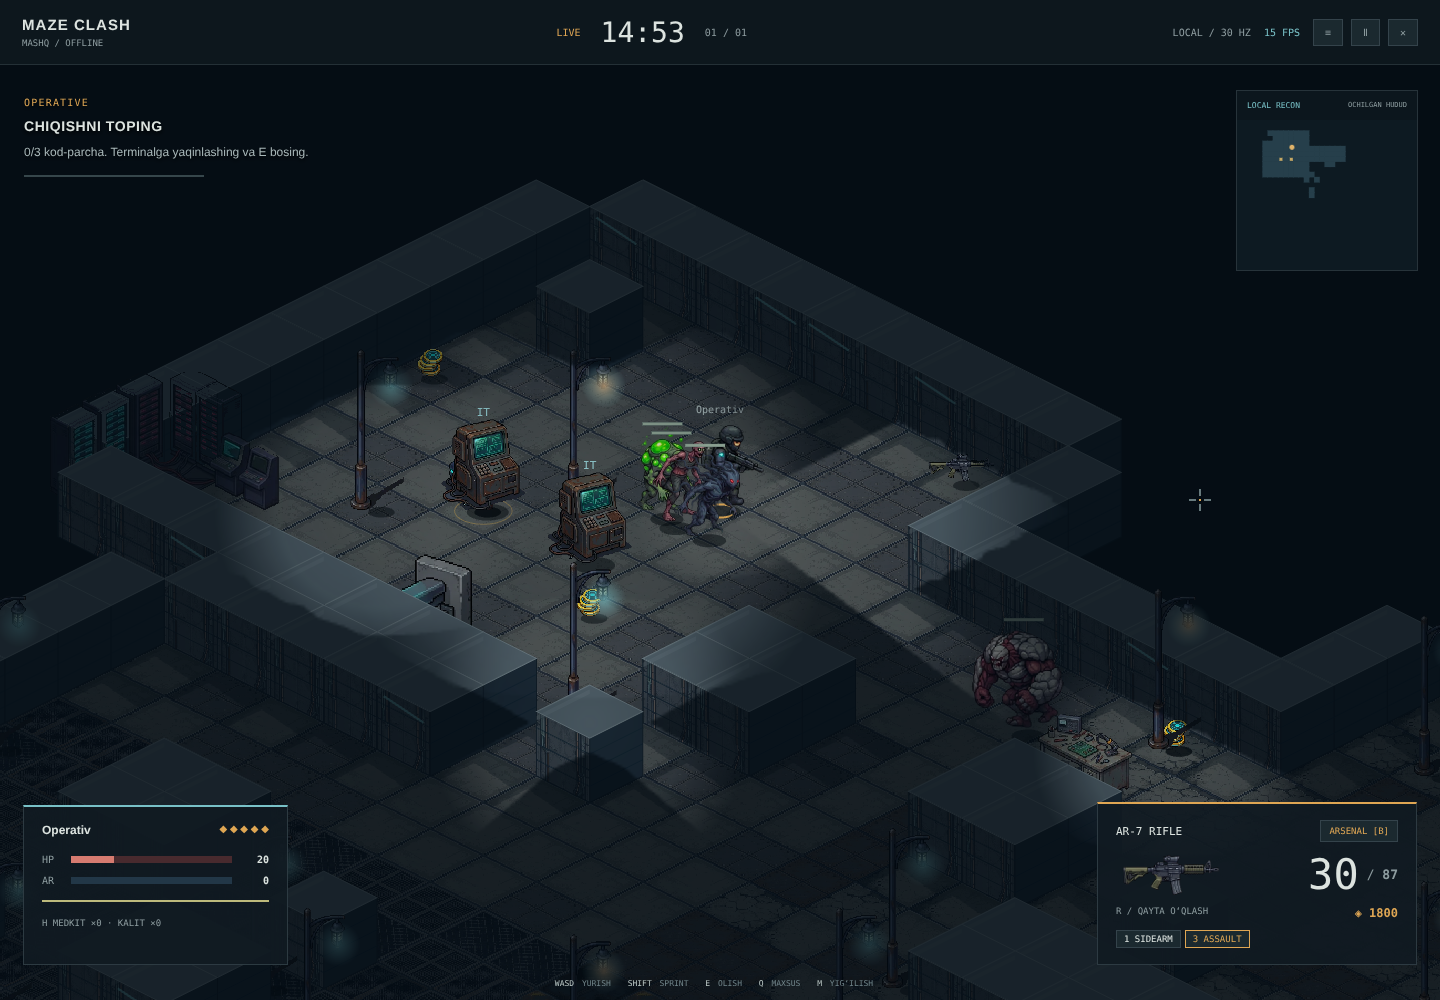
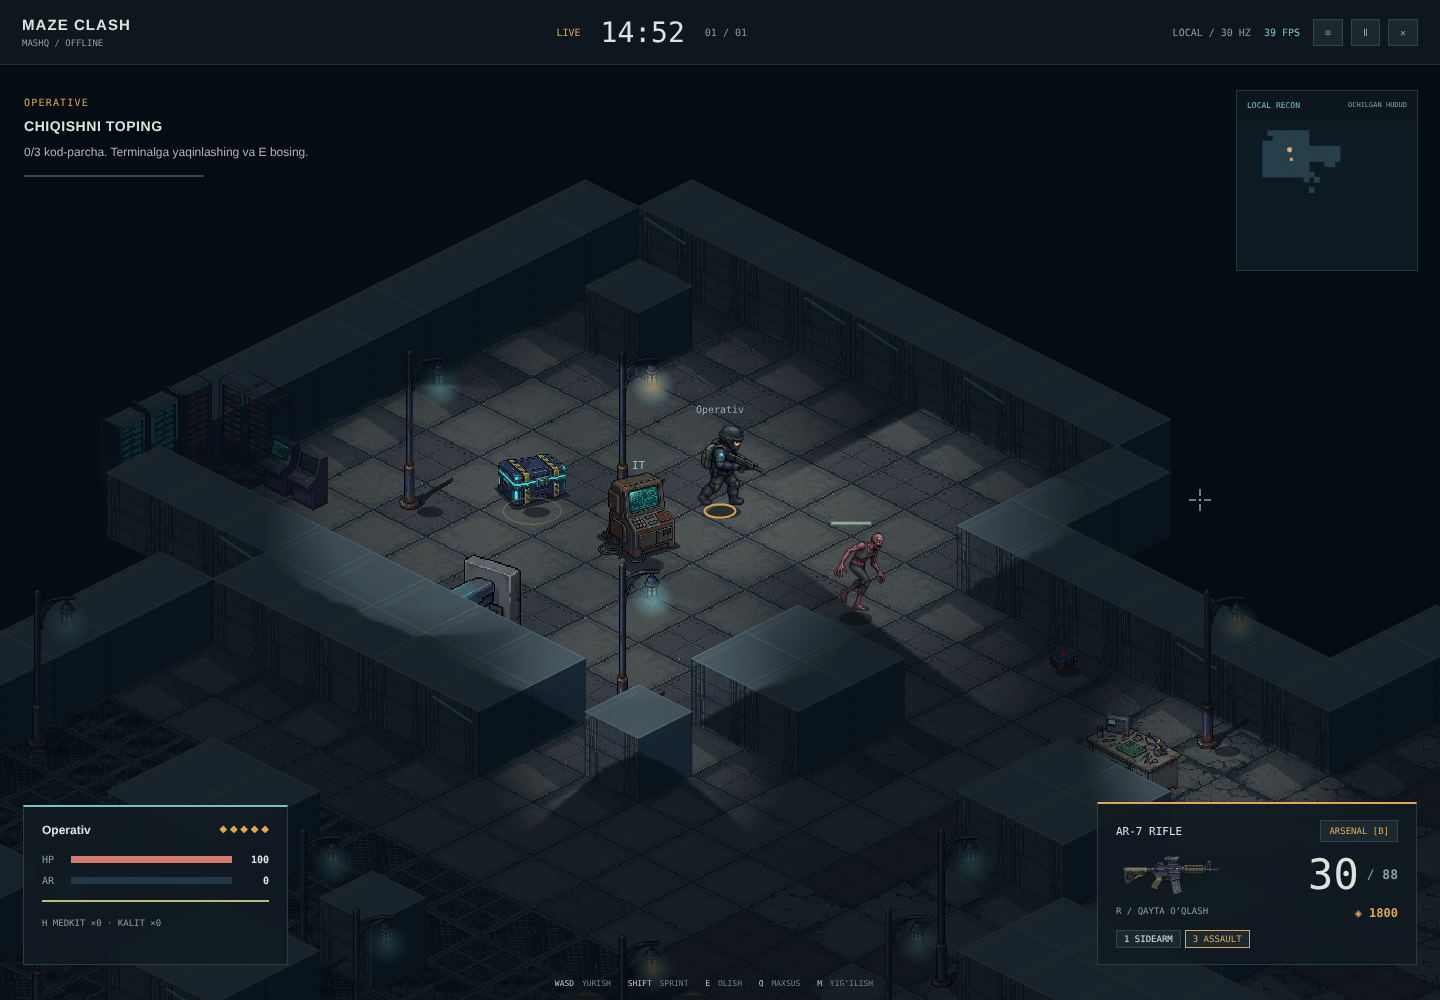
fix: make training terminal reliable and adapt render resolution
Clear random tutorial loot, share practice setup between server and worker, test first interaction across 80 map seeds, reuse light buffers, add adaptive render resolution and record live deployment evidence.

diff --git a/public/practice-worker.js b/public/practice-worker.js
@@ -907,7 +907,8 @@ class World {
         this.fire(p, now);
       // Health is never regenerated automatically: the medkit economy matters.
     }
-    if (now > this.buyEndsAt) this.moveMonsters(dt, now);
+    if (now > this.buyEndsAt && now > (this.monsterWakeAt || 0))
+      this.moveMonsters(dt, now);
     for (let i = this.bullets.length - 1; i >= 0; i--) {
       const b = this.bullets[i];
       let removed = false,
@@ -1748,6 +1749,47 @@ class World {
       question: { q: q.q, a: q.a },
     });
   }
+  preparePractice(id) {
+    const p = this.getPlayer(id);
+    Object.assign(p, {
+      x: 6.5,
+      y: 6.5,
+      credits: 1800,
+      weapon: "rifle",
+      inventory: {
+        pistol: { mag: 12, reserve: 36 },
+        rifle: { mag: 30, reserve: 90 },
+      },
+    });
+    this.gates = [];
+    this.props = this.props.filter((o) => distance(o, p) > 3);
+    // Random loot must never steal the first E interaction from the tutorial terminal.
+    this.drops = this.drops.filter((d) => distance(d, p) > 2);
+    this.terminals = [
+      {
+        id: "training-terminal",
+        x: 7.5,
+        y: 7.5,
+        quiz: this.nextQuiz(),
+        solved: false,
+      },
+      ...this.terminals.slice(0, 4).filter((t) => distance(t, p) > 3),
+    ];
+    this.drops.unshift({
+      id: uid(),
+      x: 5.5,
+      y: 7.5,
+      kind: "chest",
+      reward: "ammo",
+    });
+    this.lamps.push({ x: p.x, y: p.y, r: 5, color: "amber" });
+    this.monsterWakeAt = Date.now() + 10000;
+    const far = this.cells.filter((c) => distance(c, p) > 9);
+    this.monsters.forEach((m, i) => {
+      if (i === 0) Object.assign(m, { x: 10.5, y: 6.5 });
+      else if (distance(m, p) < 8) Object.assign(m, far[i % far.length]);
+    });
+  }
   decorate() {
     const types = [
       "crate",
@@ -1790,7 +1832,7 @@ class World {
 
 let w,p,lastSeq=0,sendCount=0;const config={mode:'escape',duration:900,lives:5,rounds:1,mapSize:'small',monsters:'few',ammo:'limited',puzzles:true,practice:true};
 onmessage=e=>{const m=e.data;if(m.t==='create'){p={id:'local',name:String(m.name||'Operativ'),participates:true,joined:Date.now()};postMessage({t:'welcome',id:p.id,host:p.id,room:'LOCAL'});postMessage({t:'lobby',room:'LOCAL',host:p.id,config,players:[p]});}
-if(m.t==='start'){w=new World(config,[p],[0,0],1,145);const actor=w.getPlayer('local');Object.assign(actor,w.near({x:6.5,y:6.5}),{credits:1800,weapon:'rifle',inventory:{pistol:{mag:12,reserve:36},rifle:{mag:30,reserve:90}}});w.gates=[];w.terminals=[{id:'training-terminal',...w.near({x:actor.x+1,y:actor.y+1}),quiz:w.nextQuiz(),solved:false},...w.terminals.slice(0,4)];w.drops.unshift({id:uid(),...w.near({x:actor.x-1,y:actor.y+1}),kind:'chest',reward:'ammo'});w.lamps.push({x:actor.x,y:actor.y,r:5,color:'amber'});if(w.monsters.length)Object.assign(w.monsters[0],w.near({x:actor.x+4,y:actor.y}));postMessage({t:'map',map:w.map,config,room:'LOCAL'});postMessage(w.snapshotFor('local'));}
+if(m.t==='start'){w=new World(config,[p],[0,0],1,145);w.preparePractice('local');postMessage({t:'map',map:w.map,config,room:'LOCAL'});postMessage(w.snapshotFor('local'));}
 if(m.t==='input'&&w)w.setInput('local',m.input);
 if(m.t==='command'&&w)w.command('local',m);
 if(m.t==='pause'&&w){if(w.paused)w.endsAt+=Date.now()-w.pauseStarted;else w.pauseStarted=Date.now();w.paused=!w.paused;}

diff --git a/client/main.js b/client/main.js
@@ -25,7 +25,8 @@ const settings = {
   zoom: 1,
   ...JSON.parse(localStorage.getItem("maze-settings") || "{}"),
 };
-let assets,
+let assetPromise,
+  assets,
   renderer,
   view,
   map,
@@ -93,11 +94,17 @@ $("dialog").addEventListener("cancel", (e) => {
   closeModal();
 });
 async function readyAssets() {
-  if (assets) return;
-  if (!assets) {
-    assets = await new Assets().load();
-    renderer = new Renderer($("game"), assets, settings);
-  }
+  assetPromise ||= new Assets()
+    .load()
+    .then((loaded) => {
+      assets = loaded;
+      renderer = new Renderer($("game"), assets, settings);
+    })
+    .catch((error) => {
+      assetPromise = null;
+      throw error;
+    });
+  return assetPromise;
 }
 const nickname = () => {
   const n = $("nickname").value.trim().slice(0, 18) || "Operativ";
@@ -921,6 +928,19 @@ function loop(ts) {
   }
   if (ts - sampleAt > 1000) {
     renderer.metrics.fps = Math.round((sampleFrames * 1000) / (ts - sampleAt));
+    if (!document.hidden) {
+      const fps = renderer.metrics.fps;
+      renderer.slowSamples = fps < 46 ? (renderer.slowSamples || 0) + 1 : 0;
+      renderer.fastSamples = fps > 57 ? (renderer.fastSamples || 0) + 1 : 0;
+      if (renderer.slowSamples >= 2) {
+        renderer.autoScale = Math.max(0.65, (renderer.autoScale || 1) - 0.1);
+        renderer.slowSamples = 0;
+      }
+      if (renderer.fastSamples >= 6) {
+        renderer.autoScale = Math.min(1, (renderer.autoScale || 1) + 0.1);
+        renderer.fastSamples = 0;
+      }
+    }
     $("perf").textContent = renderer.metrics.fps + " FPS";
     sampleFrames = 0;
     sampleAt = ts;

diff --git a/client/render.js b/client/render.js
@@ -120,7 +120,9 @@ export class Renderer {
       Math.min(
         devicePixelRatio || 1,
         this.settings.quality === "high" ? 1.5 : 1,
-      ) * (this.settings.quality === "low" ? 0.8 : 1);
+      ) *
+      (this.settings.quality === "low" ? 0.8 : 1) *
+      (this.autoScale || 1);
     if (
       this.canvas.width !== Math.round(r.width * dpr) ||
       this.canvas.height !== Math.round(r.height * dpr)
@@ -679,10 +681,16 @@ export class Renderer {
     const scale = this.settings.quality === "low" ? 0.25 : 0.4,
       w = this.width,
       h = this.height;
-    this.light.width = Math.ceil(w * scale);
-    this.light.height = Math.ceil(h * scale);
+    const lw = Math.ceil(w * scale),
+      lh = Math.ceil(h * scale);
+    if (this.light.width !== lw || this.light.height !== lh) {
+      this.light.width = lw;
+      this.light.height = lh;
+    }
     const c = this.light.getContext("2d");
     c.setTransform(scale, 0, 0, scale, 0, 0);
+    c.globalCompositeOperation = "source-over";
+    c.clearRect(0, 0, w, h);
     c.fillStyle = "#020a11b8";
     c.fillRect(0, 0, w, h);
     c.globalCompositeOperation = "destination-out";

diff --git a/docs/TEST_REPORT_UZ.md b/docs/TEST_REPORT_UZ.md
@@ -3,12 +3,14 @@
 | Tekshiruv | Natija |
 |---|---|
 | `npm run check` | Syntax, 1000 quiz schema, 19 manba, 324 sprite hududi o‘tdi |
-| `npm test` | 12/12: fizika, qurol, loot, terminal, privacy, rejim, map, AI, WS |
+| `npm test` | 13/13: fizika, qurol, loot, terminal, privacy, rejim, map, AI, WS |
 | `npm run test:e2e` | 8 browser check: mashq, E quiz, WASD+mouse+fire, shop/reload, screenshot, 2-client multiplayer, 390px, 0 console error |
-| Render baseline | Chromium software headless, 1440×1000; 60 FPS, mean 3.93 ms, p95 7.90 ms |
+| Render baseline | Chromium software headless, 1440×1000; 60 FPS, mean 2.92 ms, p95 5.70 ms |
 | `npm run test:load` | 20 WebSocket client, 15 monster, 30 Hz target / 15 Hz snapshot |
 | Lokal server load | 6 s, 189 tick; mean 2.859 ms, max 20 ms, kamida 94 snapshot/client; 74 MB RSS |
 
 Bu raqamlar tanlangan lokal testdagi o‘lchovlar. O‘zbekiston internetidagi latency/jitter, 30 daqiqalik soak, real Android va sinf kompyuteri profiling’i bilan tenglashtirmang. JSON hisobotlar qayta test paytida yangilanadi. Muayyan qo‘shimcha tekshiruvning o‘tishi master-briefdagi barcha production talablari yopildi degani emas.
 
 Browser rasmlari: `screenshots/menu.png`, `gameplay.png`, `multiplayer.png`, `mobile.png`.
+
+Live deploy tekshiruvi: Render `live`, `/health` 200; ikki tashqi browser client bir xonaga kirib match boshladi. `screenshots/live-server.png` shu jonli serverdan olingan. Tashqi browserda ikki tab bilan 21–30 FPS ham kuzatildi; 60 FPS faqat yuqoridagi lokal baseline natijasi.

diff --git a/docs/DEPLOYMENT_UZ.md b/docs/DEPLOYMENT_UZ.md
@@ -1,0 +1,14 @@
+# Jonli build
+
+- O‘yin: https://maze-clash-shadow-protocol.onrender.com/
+- WebSocket: wss://maze-clash-shadow-protocol.onrender.com/ws
+- Sog‘liq tekshiruvi: https://maze-clash-shadow-protocol.onrender.com/health
+- PR: https://github.com/QobilbekOdilov21/minigame/pull/1
+- Branch: `feat/maze-clash-2-5d-rebuild`; `main` o‘zgarmagan.
+- Runtime: Node, Frankfurt, Free, build `npm ci --omit=dev && npm run build`, start `npm start`.
+
+Bir kishilik tez sinov uchun **Mashqni boshlash**. Do‘stlar bilan: **Xona yaratish**, kod/havolani ulashish, boshqalarda **Xonaga kirish**, hostda **Matchni boshlash**. Server maydoni jonli saytda avtomatik to‘ladi.
+
+Bepul hosting demo uchun: 15 daqiqa trafik bo‘lmasa uxlaydi, keyingi kirishda uyg‘onadi. RAM’dagi xonalar restart/deployda tugaydi. Free tarif 24/7 production kafolati emas; hisobning umumiy bandwidth/build limitlari ham amal qiladi. Rasmiy shartlar: https://render.com/docs/free .
+
+Deploy `live` holatiga yetgani, health 200 va ikki tashqi browserning bir xonada ishlashi tekshirildi. To‘liq internet soak, past quvvatli real Android va barcha 8-dir action atlaslari hali ochiq; `ACCEPTANCE.md`ni ko‘ring.

diff --git a/README.md b/README.md
@@ -2,6 +2,10 @@
 
 SysOne Academy uchun ishlaydigan **izometrik 2.5D tactical shooter**. X/Y o‘yin fizikasi, 2:1 izometrik pol, baland devorlar, oyoq nuqtasi bo‘yicha depth sorting va devor oldida cutaway. Grafik manba — foydalanuvchi bergan 19 ta original atlas va ulardan ishlab chiqilgan animatsiyalar.
 
+**Jonli o‘yin:** https://maze-clash-shadow-protocol.onrender.com/
+
+**Pull Request:** https://github.com/QobilbekOdilov21/minigame/pull/1
+
 ## Ishga tushirish
 
 Node.js 22 yoki yangiroq:
